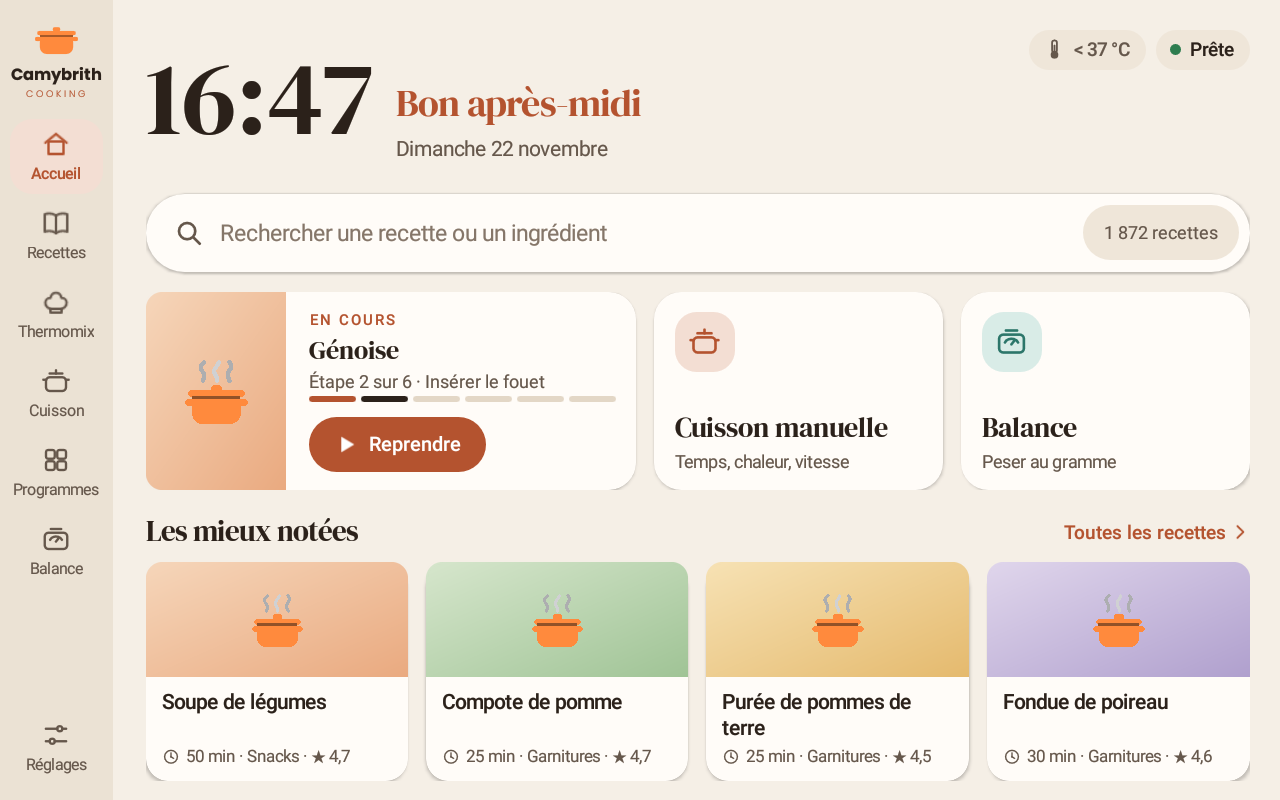
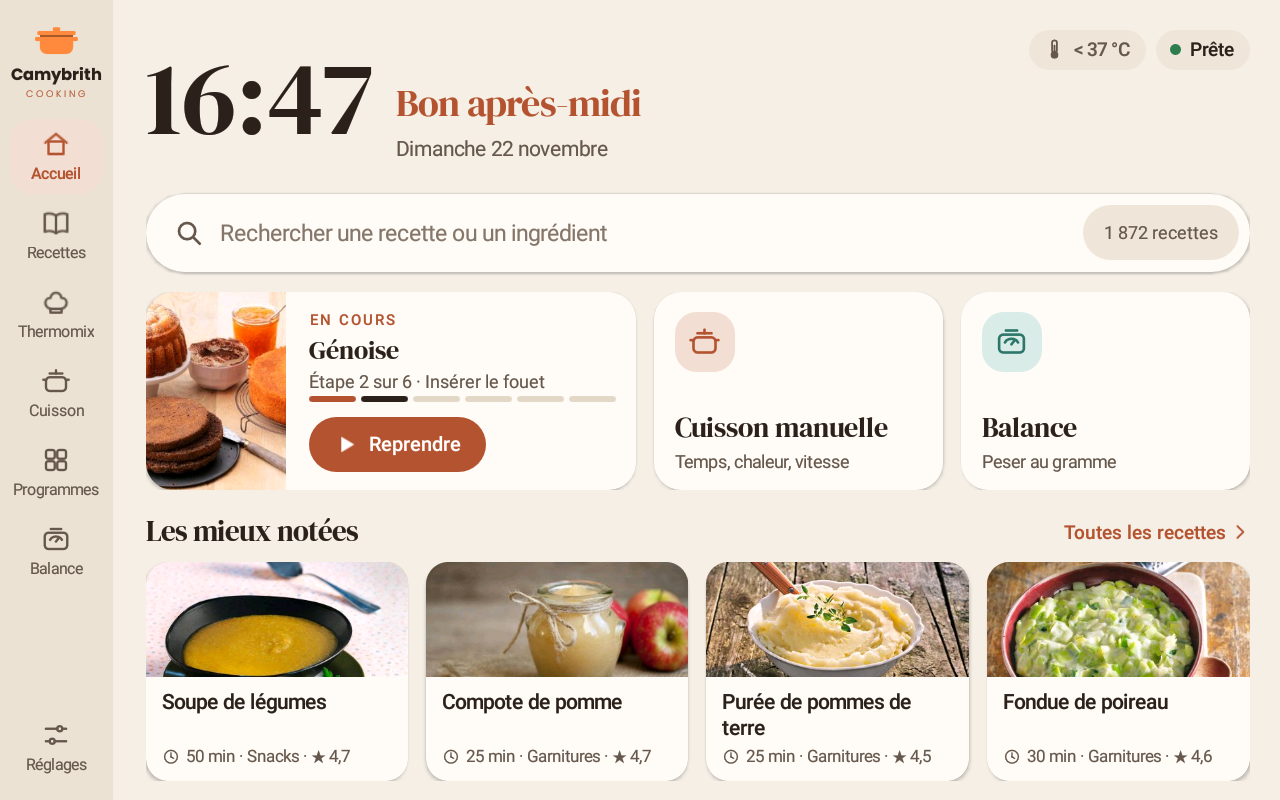
Captures d'écran avec les vraies photos de recettes / Screenshots with the real recipe photos
Claude-Session: https://claude.ai/code/session_01MquiKQGafPjKwDZe1zdQrQ

Changed region(s): [[0.0938, 0.6875, 1.0, 0.8438], [0.0938, 0.3438, 0.25, 0.625]]

diff --git a/README.en.md b/README.en.md
@@ -27,7 +27,7 @@ scale itself, and keeps the official Monsieur Cuisine recipes.
 | ![Search](docs/images/recherche.png) | ![Settings](docs/images/reglages.png) |
 | **Instant search**, even with typos | **Settings**: light or dark theme, language, sounds |
 
-<sub>Recipe photos are replaced by illustrations in these screenshots; on the robot they are the recipes' own photos. The screenshots show the app in French; it is also available in English.</sub>
+<sub>Screenshots taken on the robot. Recipe photos belong to Monsieur Cuisine (Lidl). The screenshots show the app in French; it is also available in English.</sub>
 
 ## Install
 
@@ -122,5 +122,5 @@ The rooting method comes from the community of
 (issue #38, especially depau and ihrapsa). Root is provided by
 [Magisk](https://github.com/topjohnwu/Magisk).
 
-MIT license: see [LICENSE](LICENSE). No Lidl code, recipe, image or file is included in this
-repository.
+MIT license: see [LICENSE](LICENSE). No Lidl code, recipe or file is included in this repository;
+the only Lidl images are the recipe photos visible in the screenshots.

diff --git a/README.md b/README.md
@@ -27,7 +27,7 @@ moteur, la chauffe et la balance, et garde les recettes officielles Monsieur Cui
 | ![Recherche](docs/images/recherche.png) | ![Réglages](docs/images/reglages.png) |
 | **Recherche** instantanée, même avec des fautes | **Réglages** : thème clair ou sombre, langue, sons |
 
-<sub>Les photos de recettes sont remplacées par des illustrations sur ces captures : sur le robot, ce sont les photos des recettes.</sub>
+<sub>Captures prises sur le robot. Les photos des recettes sont celles de Monsieur Cuisine (Lidl).</sub>
 
 ## Installer
 
@@ -120,5 +120,5 @@ La méthode de root vient de la communauté du dépôt
 (discussion n° 38, en particulier depau et ihrapsa). Le root utilise
 [Magisk](https://github.com/topjohnwu/Magisk).
 
-Licence MIT : voir [LICENSE](LICENSE). Aucun code, recette, image ou fichier de Lidl n'est inclus
-dans ce dépôt.
+Licence MIT : voir [LICENSE](LICENSE). Aucun code, recette ou fichier de Lidl n'est inclus dans ce
+dépôt ; les seules images de Lidl sont les photos de recettes visibles sur les captures d'écran.
